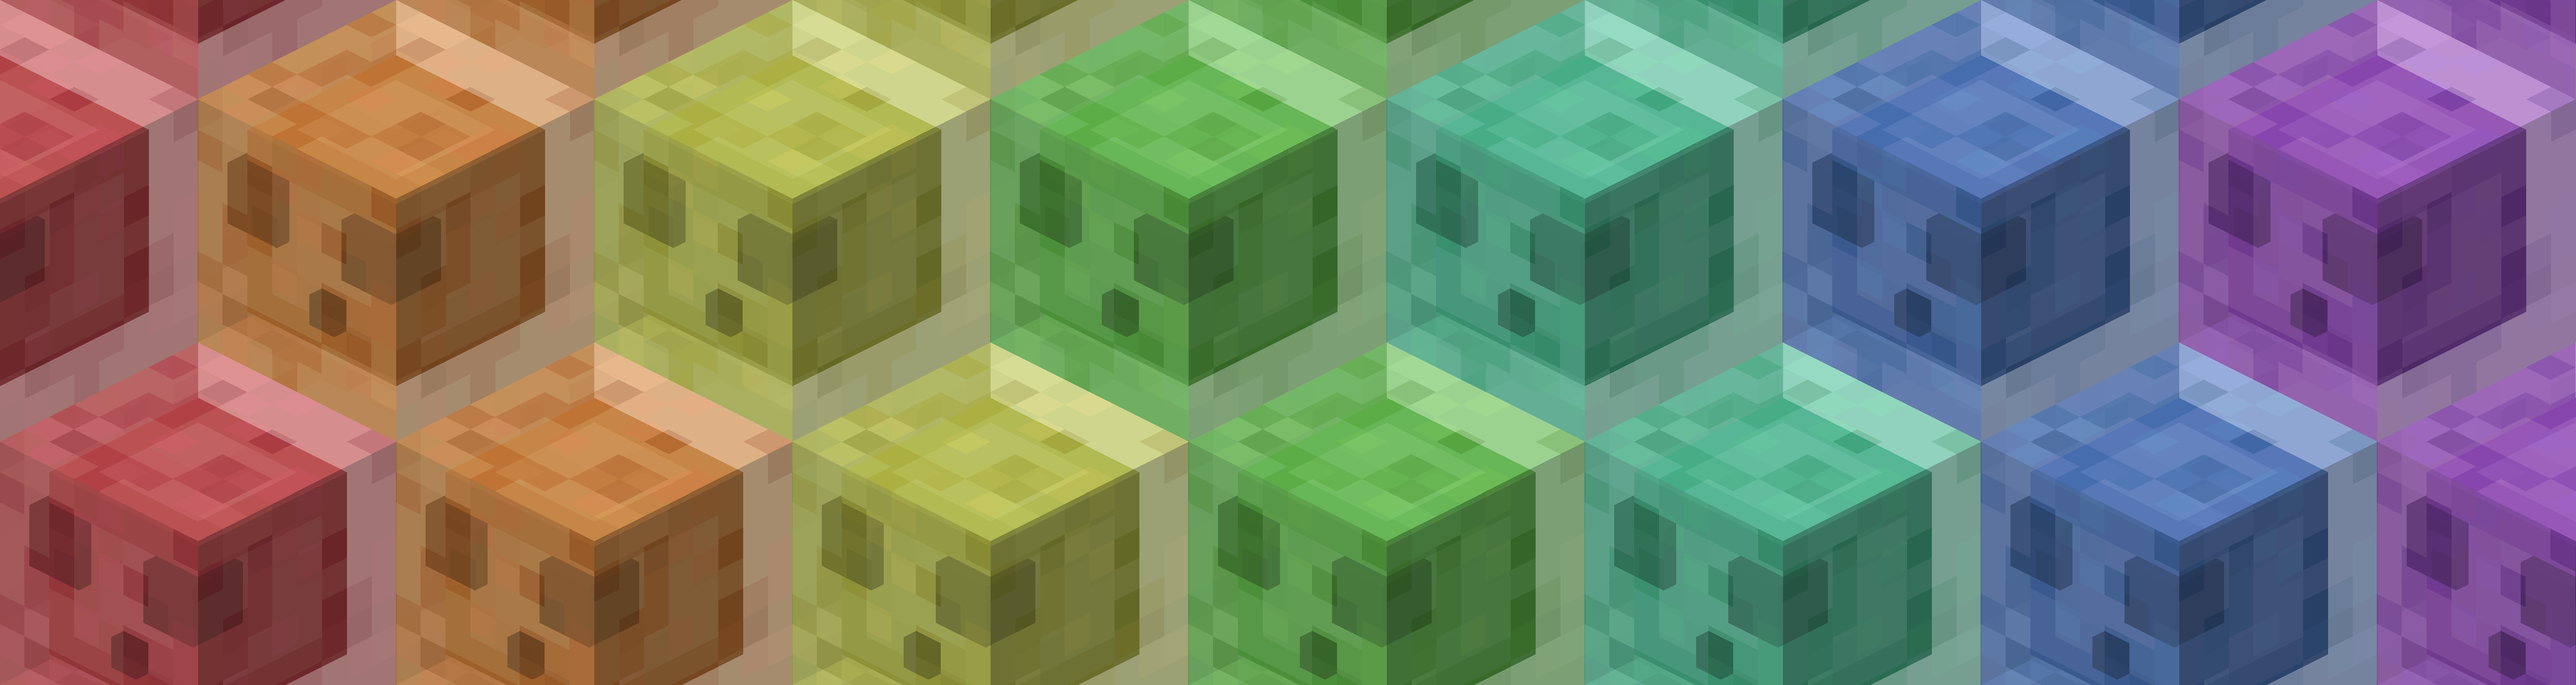
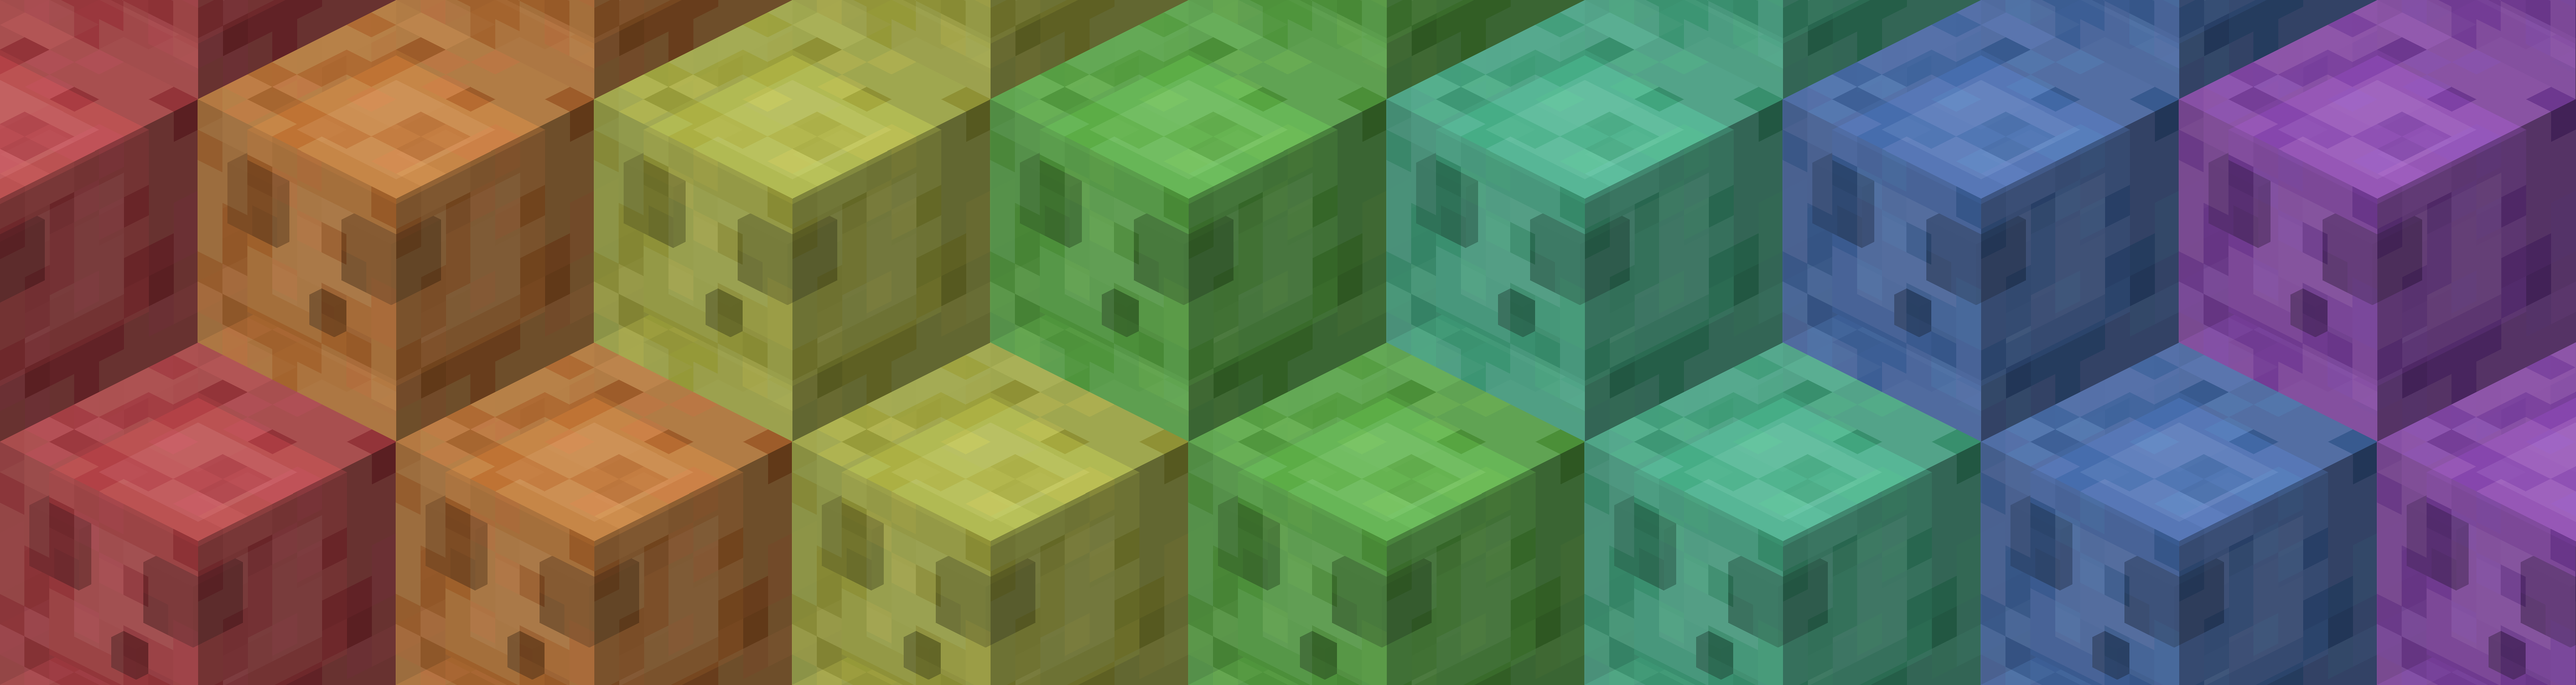
header background

Changed region(s): [[0.0, 0.0, 1.0, 1.0]]

diff --git a/index.html b/index.html
@@ -50,7 +50,10 @@
             <div class="col-md-1"></div>
         </div>
     </div>
-    <svg viewBox="0 0 1440 320"><path class="svg-fill-bg" fill="#ffffff" fill-opacity="1" d="M0,160L48,176C96,192,192,224,288,208C384,192,480,128,576,133.3C672,139,768,213,864,202.7C960,192,1056,96,1152,74.7C1248,53,1344,107,1392,133.3L1440,160L1440,320L1392,320C1344,320,1248,320,1152,320C1056,320,960,320,864,320C768,320,672,320,576,320C480,320,384,320,288,320C192,320,96,320,48,320L0,320Z"/></svg>
+    <svg viewBox="0 0 1440 320">
+        <path class="svg-stroke-shadow" d="m -10,160 c 93.638378,30.25659 208.08836,52.92752 298,48 99.02806,-5.42714 188.82706,-73.84122 288,-74.7 98.74421,-0.85507 189.65959,78.36188 288,69.4 104.62092,-9.53423 191.1707,-110.859553 287.9999,-128 C 1254.3617,56.580182 1364.9216,108.51509 1450,160"/>
+        <path class="svg-fill-bg" d="m -10,160 c 93.638381,30.25659 208.08836,52.92752 298,48 99.02806,-5.42714 188.82706,-73.84122 288,-74.7 98.74421,-0.85507 189.65959,78.36188 288,69.4 104.62095,-9.53423 191.1708,-110.859552 288,-128 102.3618,-18.119819 212.9216,33.81509 298,85.3 -0.015,24.46255 -10,160 -10,160 H 0 c 0,0 -9.8020544,-70.47209 -10,-160 z"/>
+    </svg>
 </header>
 
 <section id="portfolio" class="portfolio">

diff --git a/css/style.css b/css/style.css
@@ -30,8 +30,11 @@ a {
 .svg-fill-bg {
   fill: var(--bs-body-bg);
 }
-.svg-fill-fg {
-  fill: var(--bs-body-color);
+.svg-stroke-shadow {
+  fill: none;
+  stroke-width: 1px;
+  stroke: var(--bs-body-bg);
+  filter: drop-shadow(0px 0px 4px #000000) drop-shadow(0px 0px 7px #000000) drop-shadow(0px 0px 10px #000000) drop-shadow(0px 0px 13px #000000);
 }
 
 .navbar-dark {
@@ -130,10 +133,6 @@ a {
   }
 }
 
-.gradient {
-  background: linear-gradient(to right, var(--bs-primary), var(--bs-primary-light));
-}
-
 .menu li {
   padding: 0 0.7rem;
 }
@@ -151,6 +150,8 @@ a {
   padding: 10rem 0 0 0;
   width: 100%;
   height: 100%;
+  background: linear-gradient( rgba(0, 0, 0, 0.3), rgba(0, 0, 0, 0.3) ), url("../img/slime_bg_repeat.png") repeat-y;
+  background-size: 100%;
 }
 
 .intro {
